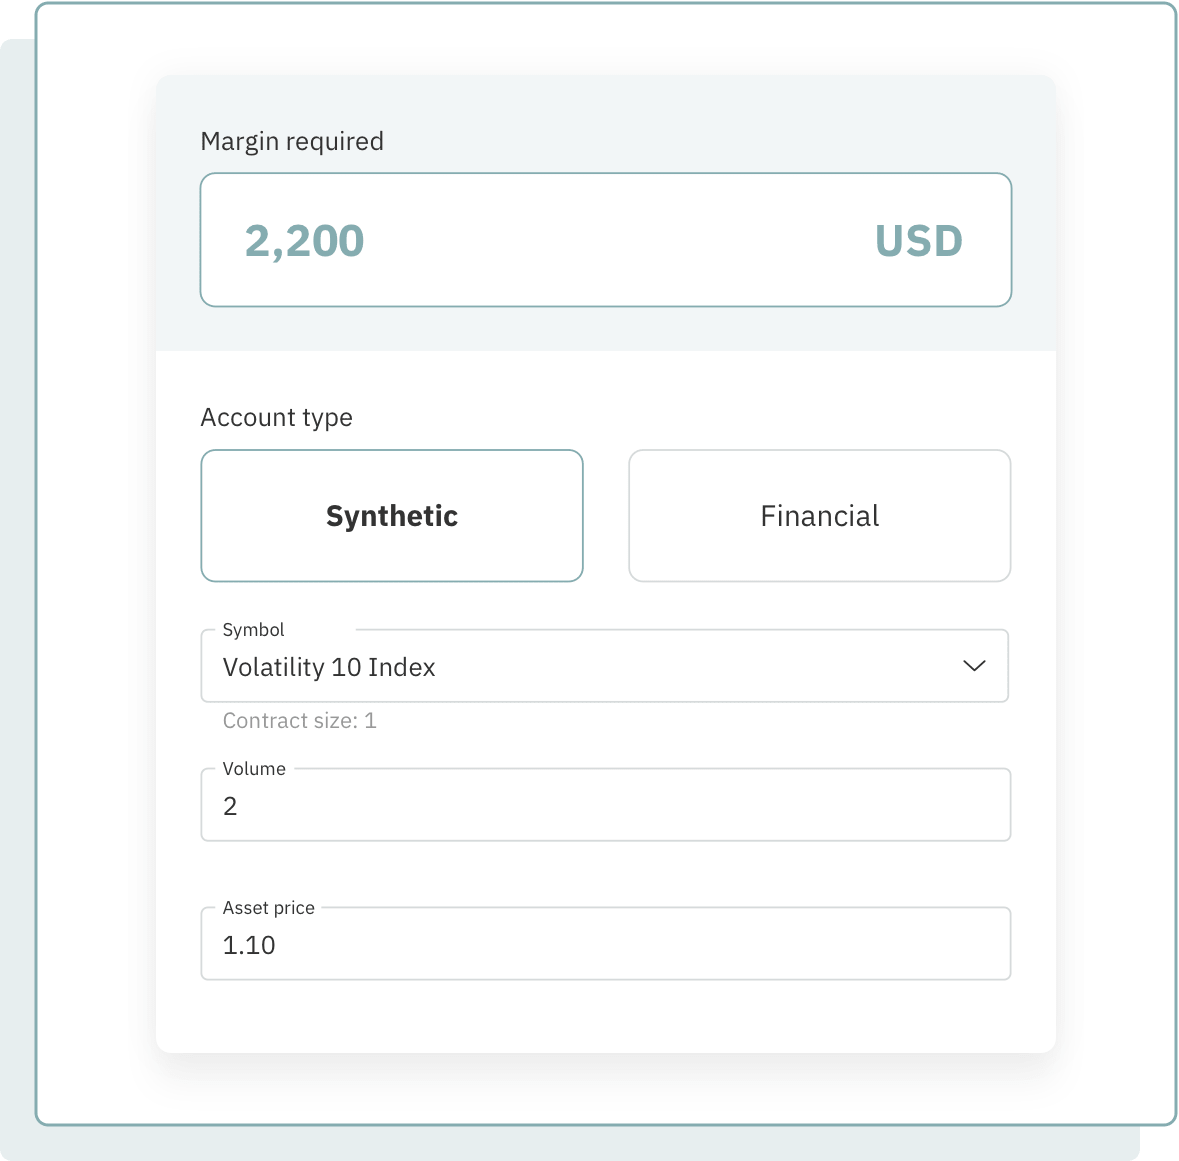
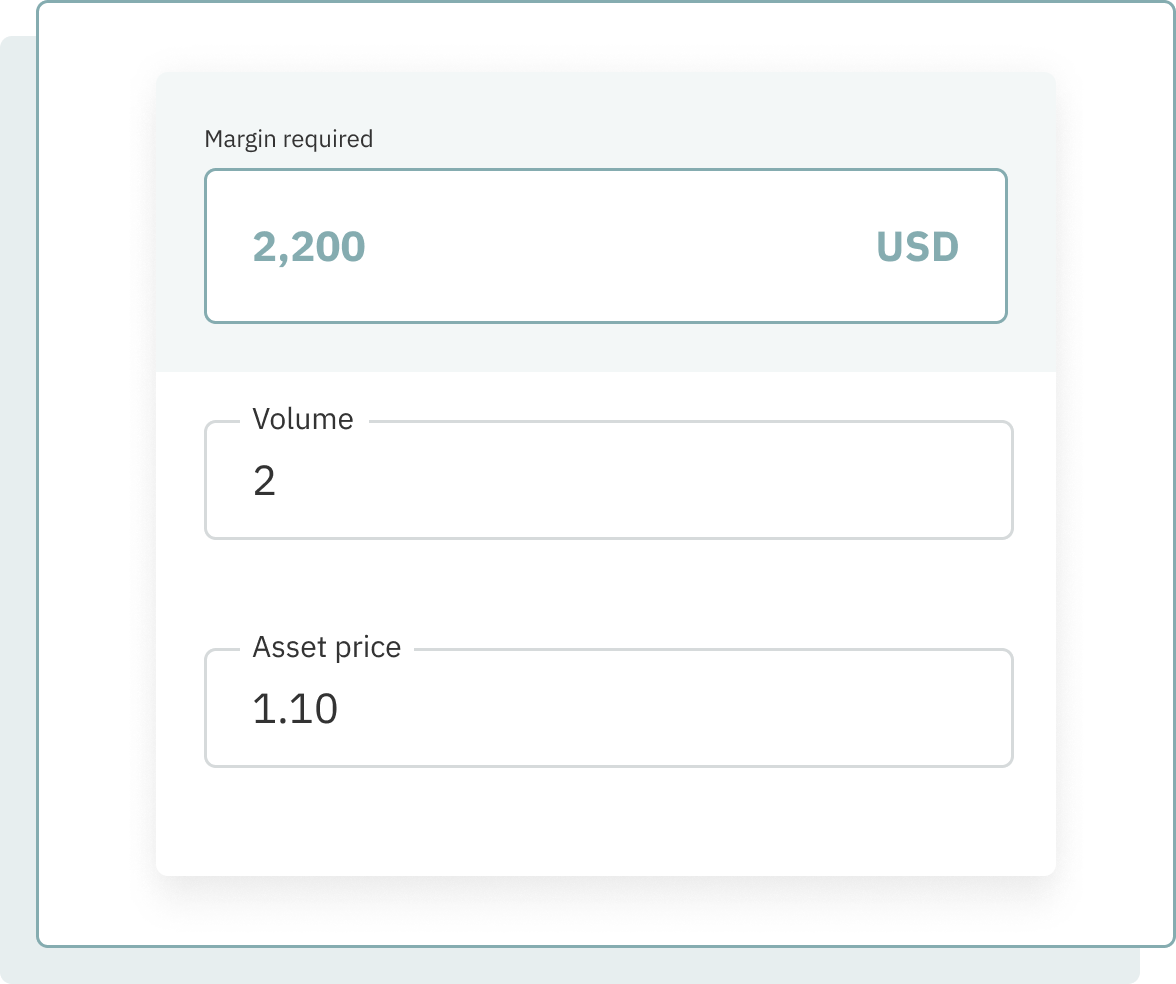
chore: update the margin calculator image in row

diff --git a/src/pages/dmt5/_margin_calculator.tsx b/src/pages/dmt5/_margin_calculator.tsx
@@ -31,14 +31,6 @@ const query = graphql`
         ) {
             ...fadeIn
         }
-        margin_calculator_eu: file(relativePath: { eq: "dmt5/dmt5-margin-calculator-eu.png" }) {
-            ...fadeIn
-        }
-        margin_calculator_eu_mobile: file(
-            relativePath: { eq: "dmt5/dmt5-margin-calculator-mobile-eu.png" }
-        ) {
-            ...fadeIn
-        }
         swap_calculator: file(relativePath: { eq: "dmt5/dmt5-swap-calculator.png" }) {
             ...fadeIn
         }
@@ -209,7 +201,7 @@ CalculatorCard.propTypes = {
     text: Proptypes.string,
 }
 
-const calculators_row: CalculatorProps[] = [
+const calculators: CalculatorProps[] = [
     {
         index: 0,
         name: <Localize translate_text="Margin calculator" />,
@@ -217,30 +209,6 @@ const calculators_row: CalculatorProps[] = [
             <Localize translate_text="Calculate the margin you need to open and hold your positions with our margin calculator." />
         ),
         image_name: 'margin_calculator',
-        image_alt_name: localize('DMT5 margin trading calculator'),
-        button_text: <Localize translate_text="Try our margin calculator" />,
-        link: '/trader-tools/margin-calculator/',
-    },
-    {
-        index: 1,
-        name: <Localize translate_text="Swap calculator" />,
-        text: (
-            <Localize translate_text="Calculate your swap fee and know exactly what you are expected to pay or will earn for maintaining an overnight contract." />
-        ),
-        image_name: 'swap_calculator',
-        image_alt_name: localize('DMT5 swap trading calculator'),
-        button_text: <Localize translate_text="Try our swap calculator" />,
-        link: '/trader-tools/swap-calculator/',
-    },
-]
-const calculators_eu: CalculatorProps[] = [
-    {
-        index: 0,
-        name: <Localize translate_text="Margin calculator" />,
-        text: (
-            <Localize translate_text="Calculate the margin you need to open and hold your positions with our margin calculator." />
-        ),
-        image_name: 'margin_calculator_eu',
         image_alt_name: localize('DMT5 margin trading calculator'),
         button_text: <Localize translate_text="Try our margin calculator" />,
         link: '/trader-tools/margin-calculator/',
@@ -278,7 +246,6 @@ const MarginCalculator = () => {
     }
 
     const { is_uk_eu } = useCountryRule()
-    const calculators = is_uk_eu ? calculators_eu : calculators_row
     return (
         <SectionContainer>
             <StyledFlexContainer>
